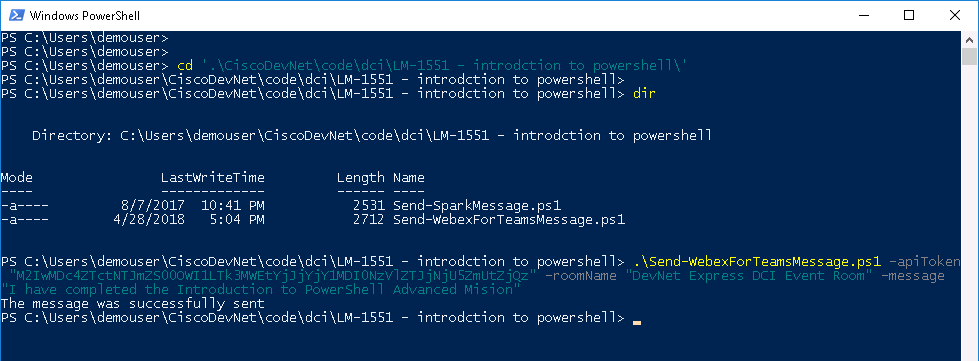
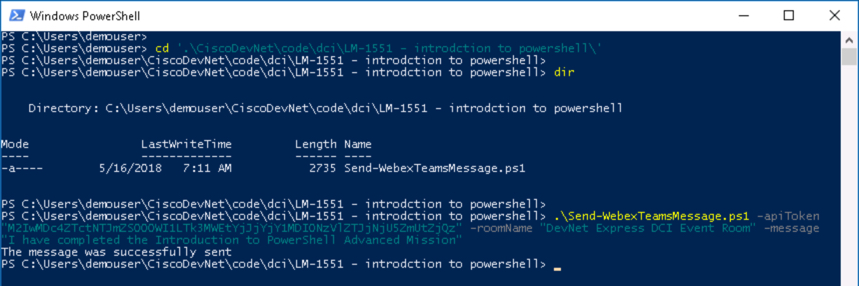
Webex Teams update

diff --git a/labs/dne-dcip-introduction-to-powershell-mission-02-v01/3.md b/labs/dne-dcip-introduction-to-powershell-mission-02-v01/3.md
@@ -59,9 +59,9 @@
 
 ### Mission Completion
 
-Update the **DevNet Express** event **WebexTeams Space** with a ***Mission Completion Message***
+Update the **DevNet Express** event **Webex Teams Space** with a ***Mission Completion Message***
 
-1. Retrieve your **WebexTeams**, formerly Cisco Spark, API Token. The token is used to authenticate and access the WebexTeams APIs.
+1. Retrieve your **Webex Teams**, formerly Cisco Spark, API Token. The token is used to authenticate and access the Webex Teams APIs.
 
   - Login to the [Cisco Webex for Developers site](https://developer.webex.com/getting-started.html)
   - Midway down the "Getting Started" page under the **Authentication** section your current API authentication token will be available for copying.
@@ -69,7 +69,7 @@ Update the **DevNet Express** event **WebexTeams Space** with a ***Mission Compl
 
     ![](assets/images/image-04.jpg)<br/><br>
 
-2. Ensure that the PowerShell session is set to use the correct TLS/SSL settings for communicating with the WebexTeams APIs by running this command.
+2. Ensure that the PowerShell session is set to use the correct TLS/SSL settings for communicating with the Webex Teams APIs by running this command.
 
   ```PowerShell
   [System.Net.ServicePointManager]::SecurityProtocol = [System.Net.SecurityProtocolType]::Ssl3 -bor [System.Net.SecurityProtocolType]::Tls -bor [System.Net.SecurityProtocolType]::Tls11 -bor [System.Net.SecurityProtocolType]::Tls12
@@ -77,7 +77,7 @@ Update the **DevNet Express** event **WebexTeams Space** with a ***Mission Compl
 
 3. Use the PowerShell `Invoke-RestMethod` Cmdlet to Retrieve the DevNet Express Event Room Id
 
-  - WebexTeams has a REST API to retrieve all the Rooms that to which you are subscribed. To execute the API through the PowerShell `Invoke-RestMethod` Cmdlet you will need to send your Access Token in the header of the request using a [PowerShell hash table construct](https://docs.microsoft.com/en-us/powershell/module/Microsoft.PowerShell.Core/about_Hash_Tables?view=powershell-5.1).
+  - Webex Teams has a REST API to retrieve all the Rooms that to which you are subscribed. To execute the API through the PowerShell `Invoke-RestMethod` Cmdlet you will need to send your Access Token in the header of the request using a [PowerShell hash table construct](https://docs.microsoft.com/en-us/powershell/module/Microsoft.PowerShell.Core/about_Hash_Tables?view=powershell-5.1).
   - A PowerShell hash table is a common programming construct know as an [*Associative Array*](https://en.wikipedia.org/wiki/Comparison_of_programming_languages_&#40;associative_array&#41;) and is similar to a Python Dictionary (dict). The elements of a hash table are ***Key/Value*** pairs. Set these values in the hash table `$headers` (this is an arbitrary variable name, you could have used any name).
 
     - **Authorization** - The value is ***your*** API Token, prefixed by the string "**Bearer** "
@@ -88,9 +88,9 @@ Update the **DevNet Express** event **WebexTeams Space** with a ***Mission Compl
     $headers = @{"Authorization" = "Bearer <your-api-token>"; "Content-Type" = "application/json"; "Acccept" = "application/json"}
     ```
 
-  - Use the WebexTeams Rooms API and find the DevNet Express Event Room. In this example the room name is **"DevNet Express DCI Event Room"**. The WebexTeams Rooms API will return a JSON construct that PowerShell will put into an array of hash tables, one hash table for each room. The array is named **items**
+  - Use the Webex Teams Rooms API and find the DevNet Express Event Room. In this example the room name is **"DevNet Express DCI Event Room"**. The Webex Teams Rooms API will return a JSON construct that PowerShell will put into an array of hash tables, one hash table for each room. The array is named **items**
 
-    - The WebexTeams Rooms API Uri is https://api.ciscospark.com/v1/rooms</br></br>
+    - The Webex Teams Rooms API Uri is https://api.ciscospark.com/v1/rooms</br></br>
 
     ```PowerShell
     Invoke-RestMethod -Uri https://api.ciscospark.com/v1/rooms -Headers $headers | %{$_.items | ?{$_.title -eq "DevNet Express DCI Event Room"} |  Select-Object id, title}
@@ -103,15 +103,15 @@ Update the **DevNet Express** event **WebexTeams Space** with a ***Mission Compl
 
     ![](assets/images/image-05.jpg)<br/><br/>
 
-4. Post the message "I have completed the Introduction to PowerShell Basic Mission" to the DevNet Express Event Room
+4. Post the message "I have completed the Introduction to PowerShell Advanced Mission" to the DevNet Express Event Room
 
-  - WebexTeams has a REST API to send Messages. To execute the API through the PowerShell `Invoke-RestMethod` Cmdlet you will need to send your Access Token in the header of the request, as well the Messages API requires the message and the destination Room Id in JSON format.
-  - The WebexTeams Messages API Uri is https://api.ciscospark.com/v1/
+  - Webex Teams has a REST API to send Messages. To execute the API through the PowerShell `Invoke-RestMethod` Cmdlet you will need to send your Access Token in the header of the request, as well the Messages API requires the message and the destination Room Id in JSON format.
+  - The Webex Teams Messages API Uri is https://api.ciscospark.com/v1/
 
     ```PowerShell
[1 lines of base64/hex data omitted]
 
-    Invoke-RestMethod -Uri https://api.ciscospark.com/v1/messages -Method POST -Headers $headers -Body $('{"roomId":"' + $devnet_express_room_id + '", "text":"I have completed the Introduction to PowerShell Basic Mission"}')
+    Invoke-RestMethod -Uri https://api.ciscospark.com/v1/messages -Method POST -Headers $headers -Body $('{"roomId":"' + $devnet_express_room_id + '", "text":"I have completed the Introduction to PowerShell Advanced Mission"}')
     ```
 
     - The **POST** method was specified for `Invoke-RestMethod`
@@ -137,7 +137,7 @@ Update the **DevNet Express** event **WebexTeams Space** with a ***Mission Compl
   - -message - The value is the message in double quotes
 
   ```PowerShell
[2 lines of base64/hex data omitted]
   ```
 
   ![](assets/images/image-08.jpg)<br/><br/>
